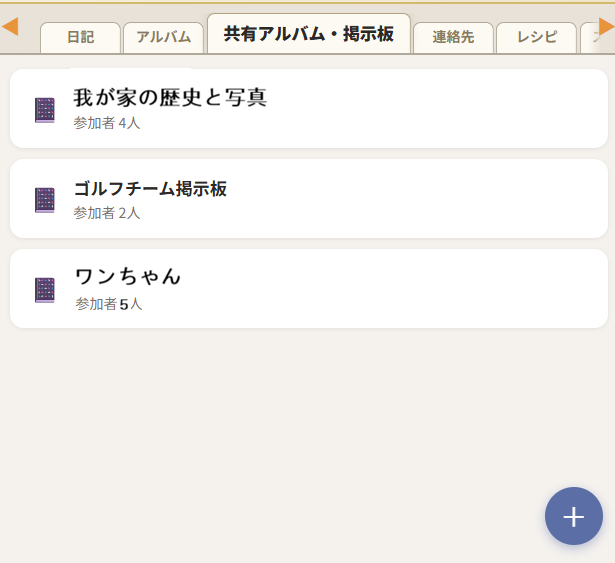
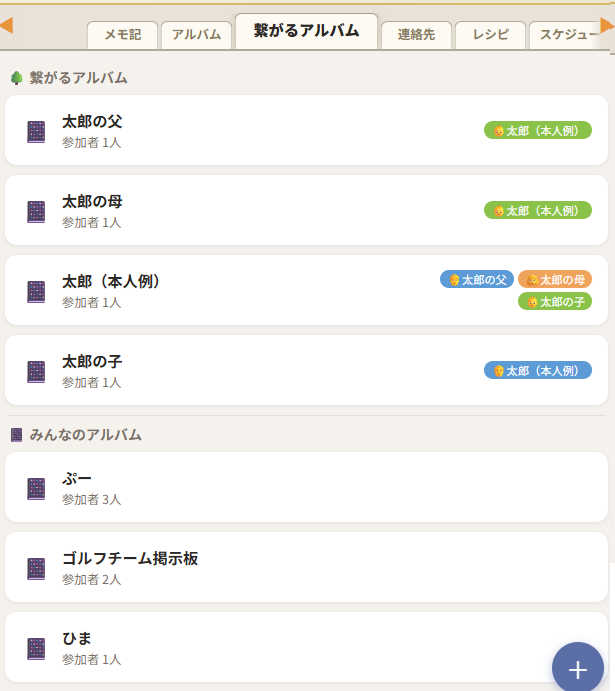
Add files via upload

diff --git a/index.html b/index.html
@@ -3,8 +3,8 @@
 <head>
 <meta charset="UTF-8">
 <meta name="viewport" content="width=device-width, initial-scale=1.0">
-<title>PrivaDiary のご案内 | 日記＆メッセージアプリ</title>
-<meta name="description" content="PrivaDiaryは、日々の記録と大切な人とのやり取りをひとつにした個人向け日記＆メッセージアプリです。使い方をご案内します。">
+<title>PrivaDiary のご案内 | メモ＆メッセージアプリ</title>
+<meta name="description" content="PrivaDiaryは、日々の記録と大切な人とのやり取りをひとつにした個人向け多機能メモ＆メッセージアプリです。使い方をご案内します。">
 <link rel="preconnect" href="https://fonts.googleapis.com">
 <link rel="preconnect" href="https://fonts.gstatic.com" crossorigin>
 <link href="https://fonts.googleapis.com/css2?family=Shippori+Mincho:wght@500;600&family=Noto+Sans+JP:wght@400;500;700&display=swap" rel="stylesheet">
@@ -38,16 +38,20 @@
 <section class="hero" id="top">
   <div class="wrap">
     <div>
-      <div class="eyebrow">日記 &amp; メッセージアプリ</div>
-      <h1>今日という一日を、<br>忘れず綴じておく。</h1>
+      <div class="eyebrow">メモ &amp; メッセージアプリ</div>
+      <h1>毎日のメモが、<br>知らず知らずのうちに記録になる。</h1>
       <p class="lead">
-        PrivaDiaryは、日々の記録と、大切な人とのやり取りをひとつにまとめた個人向けの手帳アプリです。
-        書く、残す、伝える。その3つを、ひとつの画面で。
+        PrivaDiaryは、日々のメモや思いつきが知らず知らずに記録として残り、生活を便利にしていくことを目的としています。
+        書く、残す、伝える、創造する、共有する、自分のページを作り世界を広げる、そんな自分で育てる生活メモ用アプリです。
       </p>
       <div class="hero-badges">
-        <span class="badge">オフラインでも記帳可</span>
-        <span class="badge">写真・手書き対応</span>
-        <span class="badge">通話・TV通話つきメール</span>
+        <span class="badge">日々のメモ、備忘録、予定が日記に。簡単操作</span>
+        <span class="badge">写真・手書きパレット・音声認識入力も対応</span>
+        <span class="badge">メモ記、メールの写真は自動でアルバムに分類収集</span>
+        <span class="badge">大事な予定をみんなでチェック、家族で見守る</span>
+        <span class="badge">趣味の世界をオリジナルページを創り共有</span>
+        <span class="badge">先祖から子孫へ繋ぐ</span>
+        <span class="badge">オンライン通話・TV通話つきメール</span>
       </div>
     </div>
     <div class="phone">
@@ -62,19 +66,22 @@
       <div class="kicker"><span class="num">o.</span>ご案内</div>
       <h2>画面の見かた</h2>
       <p>
-        この先の説明を読む前に、まず各部の名前を知っておくと分かりやすくなります。
-        下の画面例はパソコン版のものです。スマホでご利用の場合は、赤枠にあたる部分のみが画面いっぱいに表示されます。
+        初期画面の説明をします。LIFEモードとメールモードがあります。
+        LIFEモードでは、メモ、アルバムなど１０ページ以上の機能別ページ、さらに自分で追加して増えるページ機能等があります。
+        メールモードは友達登録をすると、友達タブが出来、メール、オンライン電話、TV電話、録音、録画機能があります。
+        下の画面例はパソコン版のものでLIFEモードを選択している時を示します。スマホでご利用の場合は、機種画面サイズになります。
       </p>
     </div>
     <div class="tab-card">
       <img src="assets/images/screen-overview.jpg" alt="PrivaDiary画面各部の説明（設定・LIFEタブ・友達タブ・日記帳の着せ替え・オフライン日記帳切り替えなどの位置）" style="width:100%;height:auto;border-radius:14px;display:block;">
-      <ul class="screen-guide-list" style="margin-top:22px;columns:2;column-gap:40px;">
+      <ul class="screen-guide-list" style="margin-top:22px;columns:1;column-gap:40px;">
         <li>ユーザー名：新規登録が完了すると表示されます</li>
-        <li>設定：新規登録・友達招待・着せ替えなどはここから行います</li>
+        <li>設定：新規登録・ログイン・ログアウト・友達招待ここから行います</li>
         <li>LIFEモード選択タブ：日記帳・アルバム・連絡先などをここで切り替えます</li>
-        <li>友達タブ：新着メールが届くと未読件数が表示されます</li>
-        <li>オフライン日記帳への切り替え：電波の無い場所でも記帳できます</li>
-        <li>日記帳の着せ替え：日めくりモードの背景を変えられます（この選択はスマホ版にのみ表示されます）</li>
+        <li>メモ記の着せ替え：日めくりモードのみ背景を変えられ、My日記帳風にアレンジできます</li> 
+        <li>友達タブ：友達タブを選択すると、LIFEモードから抜け、メール送受信、オンライン電話等が利用できます。</li>
+        <li>オフラインメモ記への切り替え：飛行機内など電波の無い場所でもメモできます</li>
+
       </ul>
     </div>
   </div>
@@ -86,26 +93,27 @@
       <div class="kicker"><span class="num">i.</span>ご案内</div>
       <h2>LIFEモードでできること</h2>
       <p>
-        画面下の「LIFE」タブから、日記帳・アルバム・連絡先・レシピ・スケジュールなど、暮らしにまつわる機能をひとつずつ呼び出せます。
-        タブは <b>◀ ／ ▶</b> で左右に切り替えるだけ。迷わず行き来できます。
+        画面下の「LIFE」タブを選択し、画面上部の<b>◀ ／ ▶</b>でメモ記・アルバム・連絡先・レシピ・スケジュールなど、暮らしにまつわる多くの機能を使ったり、また自分で作ることもできます。
       </p>
     </div>
   </div>
 </section>
 
-<!-- 日記帳 -->
+<!-- メモ記 -->
 <section class="section-tint" id="diary">
   <div class="wrap">
     <div class="tab-card" data-tab="日記帳">
       <div class="feature">
         <div class="feature-copy">
-          <h3>書きたい日に、書きたいだけ。</h3>
+          <h3>備忘録、とっさのメモも、過ぎれば貴重な財産に。</h3>
           <ul>
-            <li>「日めくりモード」と「タイムラインモード」、見やすい方を選べます</li>
-            <li>文字・カラー手書き・写真、好きな形で記帳できます</li>
-            <li>当日は自由に、未来の日は日付を指定してあらかじめ記帳できます</li>
-            <li>過去の記録も、必要なら消去できます</li>
-            <li>日めくりモードは、着せ替えで気分を変えられます</li>
+            <li>「日めくりモード」と「タイムラインモード」、見やすい方を選べます。タイムラインモードでは過去メモを一気見！</li>
+            <li>文字・カラー手書きパレット・写真、好きな形で記帳できます</li>
+            <li>簡単な計算はわざわざ専用電卓アプリを開く必要がありません。電卓マークをタップしてオープン、計算し、式ごと記録できます</li>
+            <li>片手が塞がっていても大丈夫。音声認識テキスト入力で今すぐ記録できます</li>
+            <li>当日は現在時刻で、未来の日は日時を指定してスケジュールの代用もできます</li>
+            <li>過去の記事は消去のみ。改ざん防止で大事な記録を保護できます</li>
+            <li>日めくりモードは、背景の着せ替えで気分を変えられます</li>
           </ul>
         </div>
         <div class="feature-media">
@@ -113,7 +121,8 @@
         </div>
       </div>
       <p style="margin-top:8px;color:var(--muted);font-size:.92rem;">
-        ＊「オフライン日記帳」を使えば、電波の入らない場所でも同じ感覚で記帳できます。
+        ＊「オフライン日記帳」を使えば、飛行機内など電波の入らない場所でも同じ感覚でメモし、過去記録も見れます。
+        　（オフライン日記帳は、それぞれのPC,スマホに記録します）
       </p>
     </div>
   </div>
@@ -130,10 +139,10 @@
         <div class="feature-copy">
           <h3>写真は、自分の中にも友達の中にも。</h3>
           <ul>
-            <li>自分用ルーム：日記に添えた写真が自動でここに集まります</li>
+            <li>自分用ルーム：メモ記に貼付した写真が自動でここに集まります</li>
             <li>カメラやスマホ内の写真を選んで、あとから追加することもできます</li>
-            <li>友達専用ルーム：メールでやり取りした写真が自動で並びます</li>
-            <li>こちらも、気に入った写真を自分で選んで追加できます</li>
+            <li>友達専用ルーム：メールでやり取りした写真が自動で収集されます</li>
+            <li>こちらも、自分で写真を選択して追加できます</li>
           </ul>
         </div>
       </div>
@@ -144,19 +153,27 @@
 <!-- アルバム -->
 <section id="album">
   <div class="wrap">
-    <div class="tab-card" data-tab="共有アルバム・掲示板">
+    <div class="tab-card" data-tab="繋がるアルバム">
       <div class="feature reverse">
         <div class="feature-media">
           <img src="assets/images/bulletin1.png" alt="共有アルバムの紹介">
         </div>
         <div class="feature-copy">
-          <h3>みんなで創り、知らせて、守り、遺すページ</h3>
+
+          <h3>繋がるアルバム</h3>
           <ul>
             <li>大切な写真・記憶をみんなで守り、遺すページです</li>
-            <li>ペット専用ページなどで、かわいい写真をみんなで共有</li>
-            <li>趣味のチームの連絡、記念写真、競技結果の記録</li>
-            <li>部屋は自由に作り、参加者も友達リストから選べる</li>
+            <li>誰でも始点になり父母、祖父母、子供など無限につながります</li>
+            <li>写真、メッセージで創る歴史、目で見る歴史を作りましょう</li>
+            <li>部屋は自由に作り、参加者も友達リストから選べます</li>
           </ul>
+ 　　　　　<h3>みんなのアルバム</h3>
+          <ul>
+            <li>グループ旅行など、テーマにそった写真を集め、コメントを書き、楽しむページです</li>
+            <li>ペット専用ページなどで、成長の様子など、かわいい写真をみんなで共有することもできます</li>
+            <li>趣味のチームの連絡、記念写真、競技結果などをみんなで共有し勝負しましょう</li>
+            <li>部屋は自由に作り、参加者も友達リストから選べます</li>
+          <ul>
         </div>
       </div>
     </div>
@@ -279,6 +296,20 @@
   </div>
 </section>
 
+<section id="life">
+  <div class="wrap">
+    <div class="section-head">
+      <div class="kicker"><span class="num">i.</span>ご案内</div>
+      <h2>メールモードでできること</h2>
+      <p>
+        友達登録が出来たら、画面下の「LIFE」タブ横に、友達用タブが現れます。それをタップし、メッセージ送信、オンライン電話、オンラインTV電話、録音・録画ができます。
+        （録音、録画は操作している機器のメモリに記憶します）
+      </p>
+    </div>
+  </div>
+</section>
+
+
 <!-- メール・通話 -->
 <section class="section-tint" id="mail">
   <div class="wrap">
@@ -316,7 +347,7 @@
     </div>
 
     <div class="tab-card" style="margin-bottom:24px;">
-      <h3>① まずはインストール</h3>
+      <h3>① まずはインストール（リンクを開き、②の新規登録から始めることもできます。慣れたらインストールが便利です）</h3>
       <ul>
         <li><b>iPhoneの方：</b>下記のリンクをSafariで開き、共有ボタン（□に↑のアイコン）から「ホーム画面に追加」を選んでください</li>
         <li><b>Androidの方：</b>下記のリンクを開くと、ホーム画面へ追加する案内が表示されます</li>
